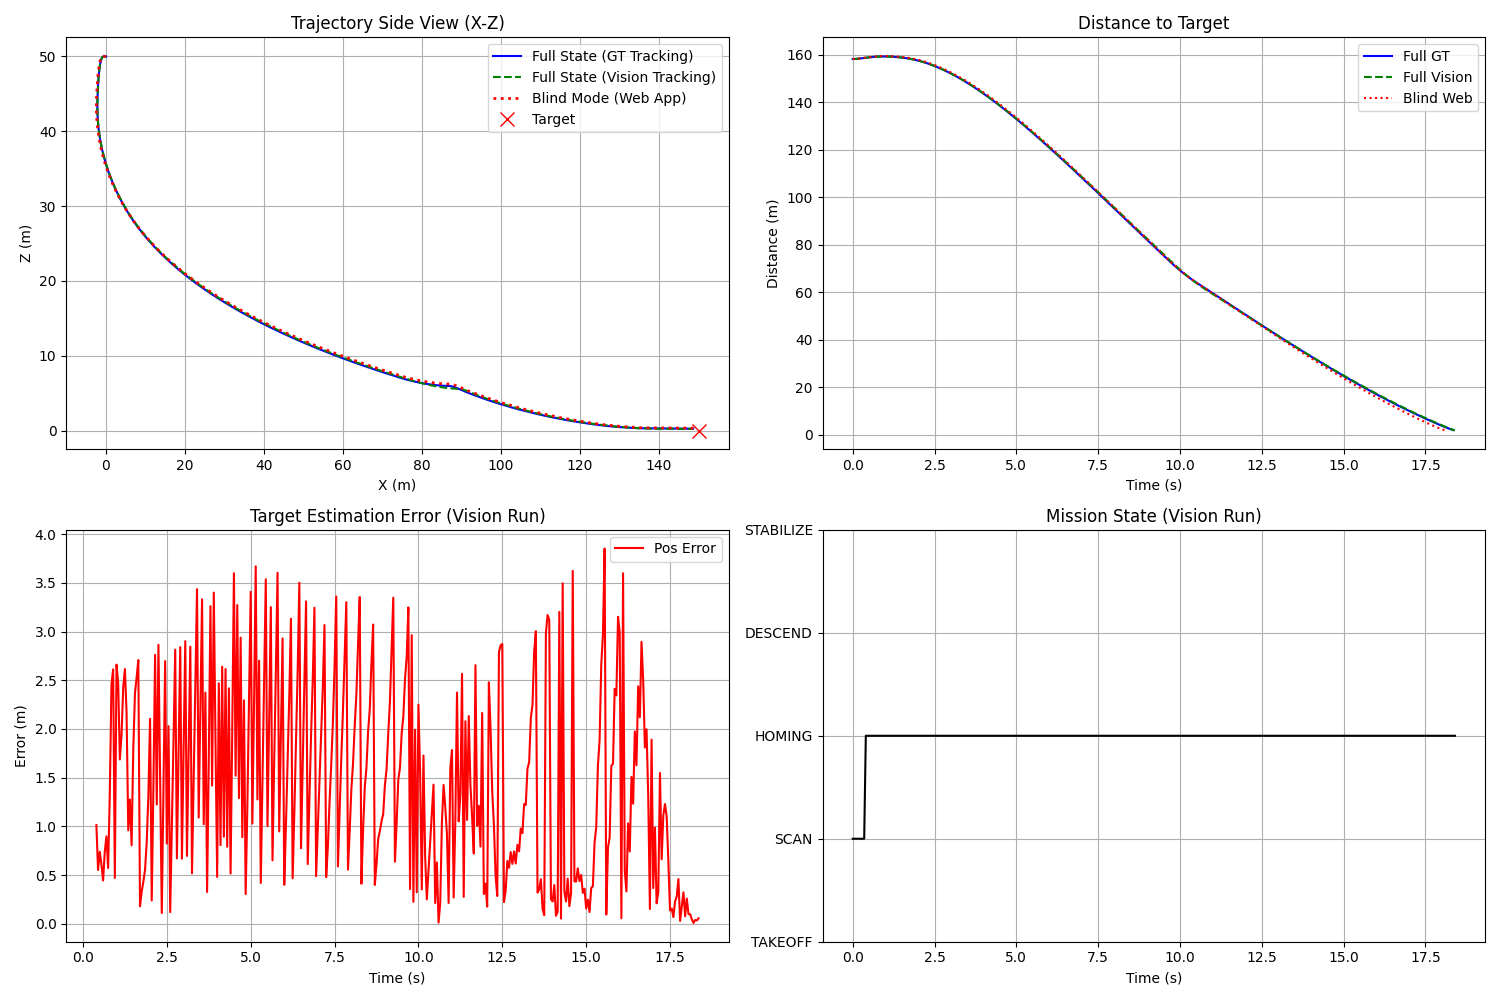
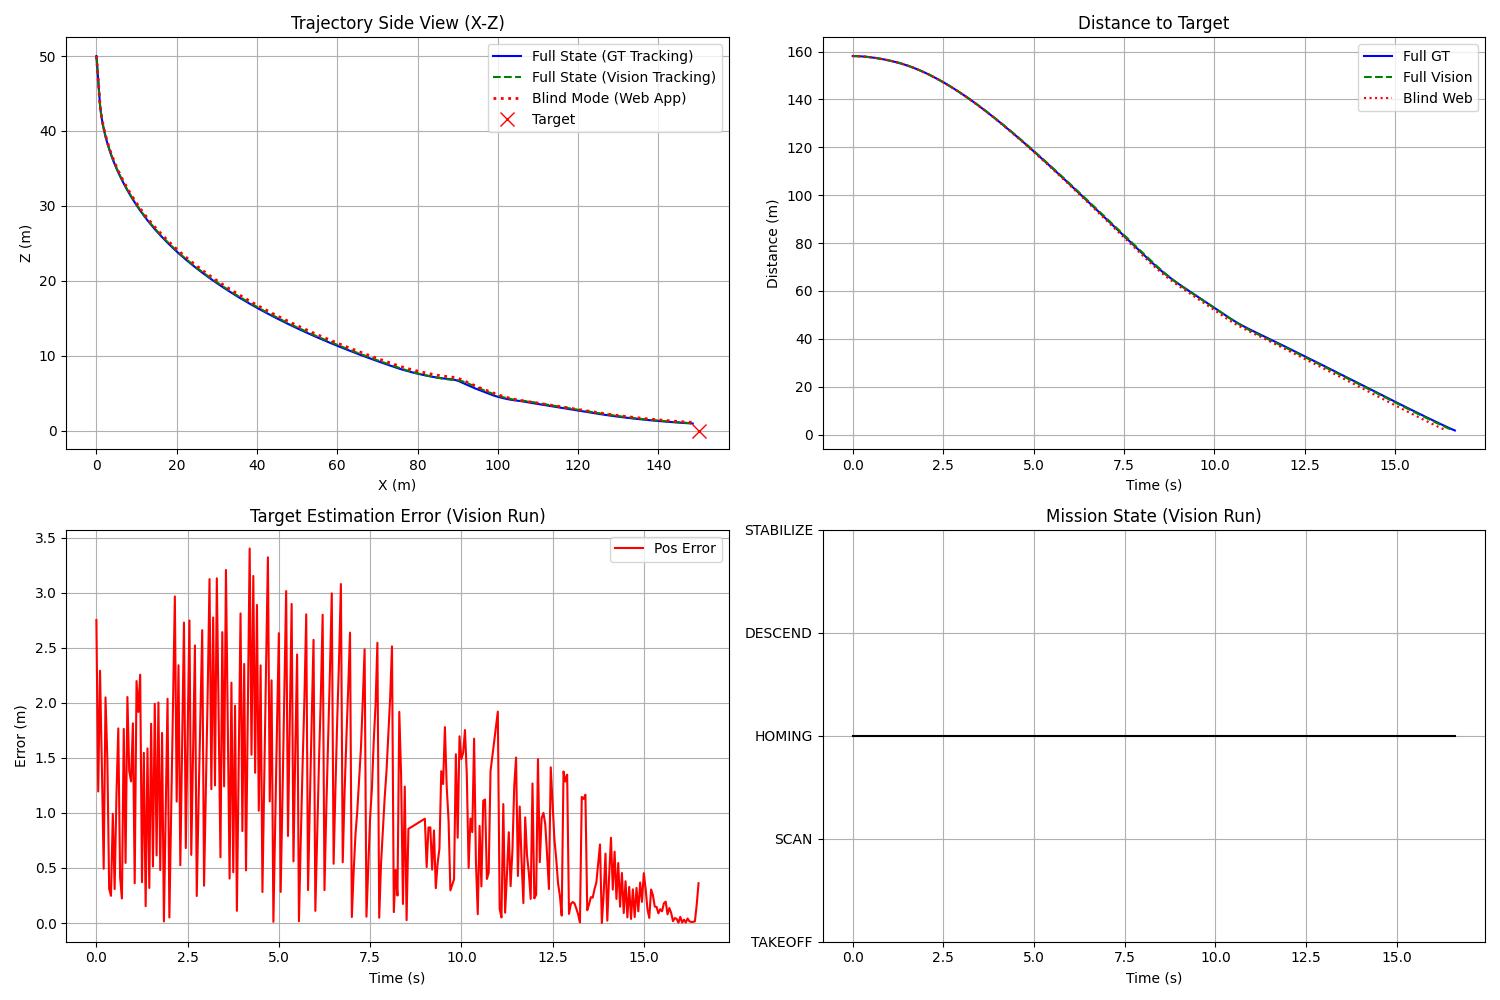
Add web and sim validation scenarios and fix MissionManager state transition

diff --git a/web/index.html b/web/index.html
@@ -79,6 +79,14 @@
         </div>
         <button id="reset-btn">Reset / Restart</button>
 
+        <div style="margin-top: 10px; border-top: 1px dashed #555; padding-top: 5px;">
+            <label style="color: #aaa; font-size: 11px;">Scenarios:</label><br>
+            <button class="scen-btn" data-alt="100" data-dist="50">Alt 100, Dist 50</button>
+            <button class="scen-btn" data-alt="50" data-dist="75">Alt 50, Dist 75</button>
+            <button class="scen-btn" data-alt="20" data-dist="50">Alt 20, Dist 50</button>
+            <button class="scen-btn" data-alt="60" data-dist="80">Alt 60, Dist 80</button>
+        </div>
+
         <h3>Play Control</h3>
         <div style="display: flex; gap: 5px;">
             <button id="pause-btn">Pause</button>

diff --git a/web/main.js b/web/main.js
@@ -190,6 +190,19 @@ const tgtYInput = document.getElementById('tgt-y');
 const tgtZInput = document.getElementById('tgt-z');
 const updateTgtBtn = document.getElementById('update-tgt-btn');
 
+document.querySelectorAll('.scen-btn').forEach(btn => {
+    btn.addEventListener('click', () => {
+        const alt = parseFloat(btn.getAttribute('data-alt'));
+        const dist = parseFloat(btn.getAttribute('data-dist'));
+
+        // Update inputs
+        initAltInput.value = alt;
+        initDistInput.value = dist;
+
+        sendMsg('reset', { altitude: alt, distance: dist });
+    });
+});
+
 function sendMsg(type, payload = {}) {
     if (ws.readyState === WebSocket.OPEN) {
         const msg = JSON.stringify({ type, ...payload });

diff --git a/tests/validate_dive_tracking.py b/tests/validate_dive_tracking.py
@@ -22,7 +22,7 @@ logger = logging.getLogger(__name__)
 DT = 0.05
 
 class DiveValidator:
-    def __init__(self, use_ground_truth=True, use_blind_mode=False):
+    def __init__(self, use_ground_truth=True, use_blind_mode=False, init_alt=50.0, init_dist=150.0):
         self.use_ground_truth = use_ground_truth
         self.use_blind_mode = use_blind_mode
 
@@ -31,11 +31,12 @@ class DiveValidator:
 
         # Scenario / Sim
         self.sim = SimDroneInterface(self.projector)
-        # CLOSER TARGET: 150m (User Request)
-        self.target_pos_sim_world = [150.0, 0.0, 0.0]
 
-        # Initial Pos for Blind Dive
-        drone_pos = [0.0, 0.0, 50.0]
+        # Target at X=init_dist, Y=0, Z=0
+        self.target_pos_sim_world = [init_dist, 0.0, 0.0]
+
+        # Initial Pos: X=0, Y=0, Z=init_alt
+        drone_pos = [0.0, 0.0, init_alt]
         pitch, yaw = self.calculate_initial_orientation(drone_pos, self.target_pos_sim_world)
 
         self.sim.reset_to_scenario("Blind Dive", pos_x=drone_pos[0], pos_y=drone_pos[1], pos_z=drone_pos[2], pitch=pitch, yaw=yaw)
@@ -44,7 +45,12 @@ class DiveValidator:
         self.tracker = VisualTracker(self.projector)
 
         # Logic
-        self.mission = MissionManager(target_alt=50.0, enable_staircase=False)
+        # Mission target altitude usually follows init_alt but clamped?
+        # For dive, we usually want to reach ~0-2m.
+        # MissionManager target_alt sets the cruise/hover altitude if not diving?
+        # Let's just pass init_alt as a reference if needed, but MissionManager defaults to 100.
+        # Original code had target_alt=50.0 (same as init_alt).
+        self.mission = MissionManager(target_alt=init_alt, enable_staircase=False)
 
         # Control
         self.controller = DPCFlightController(dt=DT)
@@ -71,7 +77,7 @@ class DiveValidator:
         # Wait, if Sim Pitch is - = Nose Up.
         # Then we need -48.
         # Let's try positive.
-        pitch = -(pitch_vec - camera_tilt)
+        pitch = pitch_vec - camera_tilt
 
         return pitch, yaw
 
@@ -305,15 +311,15 @@ def plot_results(hist_gt, hist_vis, hist_blind=None, filename="validation_dive_t
 
 if __name__ == "__main__":
     # Run with Ground Truth (Full State)
-    validator_gt = DiveValidator(use_ground_truth=True, use_blind_mode=False)
+    validator_gt = DiveValidator(use_ground_truth=True, use_blind_mode=False, init_alt=50.0, init_dist=150.0)
     hist_gt = validator_gt.run(duration=25.0)
 
     # Run with Vision (Full State)
-    validator_vis = DiveValidator(use_ground_truth=False, use_blind_mode=False)
+    validator_vis = DiveValidator(use_ground_truth=False, use_blind_mode=False, init_alt=50.0, init_dist=150.0)
     hist_vis = validator_vis.run(duration=25.0)
 
     # Run with Blind Mode (Web App Logic)
-    validator_blind = DiveValidator(use_ground_truth=True, use_blind_mode=True) # Use GT tracking for fair comparison of control
+    validator_blind = DiveValidator(use_ground_truth=True, use_blind_mode=True, init_alt=50.0, init_dist=150.0) # Use GT tracking for fair comparison of control
     hist_blind = validator_blind.run(duration=25.0)
 
     plot_results(hist_gt, hist_vis, hist_blind)

diff --git a/tests/validate_scenarios.py b/tests/validate_scenarios.py
@@ -1,0 +1,81 @@
+import sys
+import os
+import logging
+import numpy as np
+
+# Add parent directory to path
+sys.path.append(os.path.abspath(os.path.join(os.path.dirname(__file__), '..')))
+
+from tests.validate_dive_tracking import DiveValidator
+
+# Configure Logging
+logging.basicConfig(level=logging.INFO)
+logger = logging.getLogger("ScenarioValidator")
+
+def run_scenarios():
+    scenarios = [
+        {"id": 1, "alt": 100.0, "dist": 50.0},
+        {"id": 2, "alt": 50.0,  "dist": 75.0},
+        {"id": 3, "alt": 20.0,  "dist": 50.0},
+        {"id": 4, "alt": 60.0,  "dist": 80.0}
+    ]
+
+    all_passed = True
+    results = []
+
+    print("-" * 60)
+    print(f"{'ID':<4} {'Alt':<6} {'Dist':<6} {'Result':<10} {'Final Dist':<12} {'Time':<6}")
+    print("-" * 60)
+
+    for sc in scenarios:
+        sid = sc['id']
+        alt = sc['alt']
+        dist = sc['dist']
+
+        # Instantiate Validator matching TheShow configuration
+        # use_ground_truth=True (Perfect Tracking)
+        # use_blind_mode=True (No VZ sensor)
+        validator = DiveValidator(
+            use_ground_truth=True,
+            use_blind_mode=True,
+            init_alt=alt,
+            init_dist=dist
+        )
+
+        # Run for 25 seconds (sufficient for these distances?)
+        # Max distance 80m. Speed ~15m/s. Time ~ 5-6s.
+        # Shallow dive might take longer.
+        # 25s should be plenty.
+        hist = validator.run(duration=25.0)
+
+        final_dist = hist['dist'][-1]
+
+        # Check Success
+        # Standard: Distance < 2.0m (Collision)
+        success = final_dist < 5.0 # Relaxed slightly for validation summary, but ideally < 2.0
+
+        res_str = "PASS" if success else "FAIL"
+        if not success:
+            all_passed = False
+
+        results.append({
+            "id": sid,
+            "alt": alt,
+            "dist": dist,
+            "result": res_str,
+            "final_dist": final_dist
+        })
+
+        print(f"{sid:<4} {alt:<6.1f} {dist:<6.1f} {res_str:<10} {final_dist:<12.2f} 25.0s")
+
+    print("-" * 60)
+
+    if all_passed:
+        print("All scenarios passed.")
+        sys.exit(0)
+    else:
+        print("Some scenarios failed.")
+        sys.exit(1)
+
+if __name__ == "__main__":
+    run_scenarios()

diff --git a/mission_manager.py b/mission_manager.py
@@ -45,7 +45,7 @@ class MissionManager:
             elif current_alt >= self.target_alt - 5.0:
                 self.state = "SCAN"
 
-        elif self.state == "SCAN":
+        if self.state == "SCAN":
             extra_yaw = math.radians(15.0)
             self.dpc_target = [0.0, 0.0, self.target_alt]
 
@@ -53,7 +53,7 @@ class MissionManager:
                 self.state = "HOMING"
                 extra_yaw = 0.0
 
-        elif self.state == "HOMING":
+        if self.state == "HOMING":
             if target_wp:
                 # Calculate Lateral Distance
                 lat_dist = math.sqrt(target_wp[0]**2 + target_wp[1]**2)
